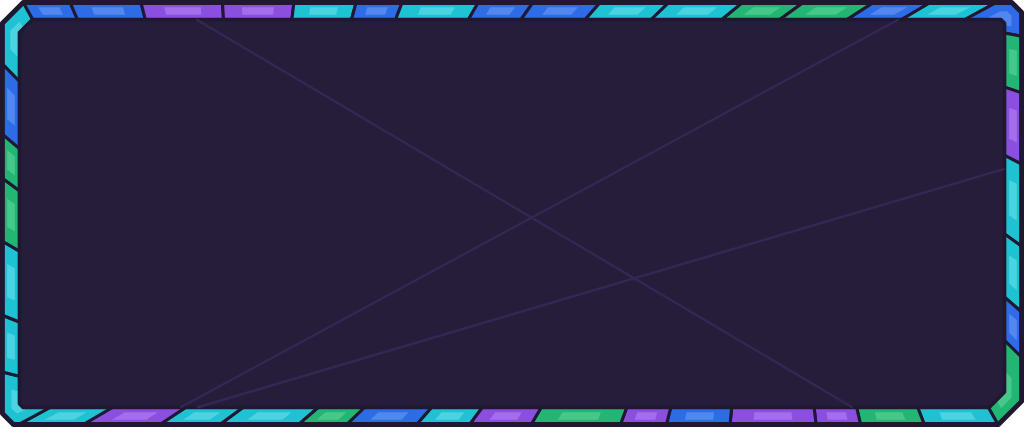
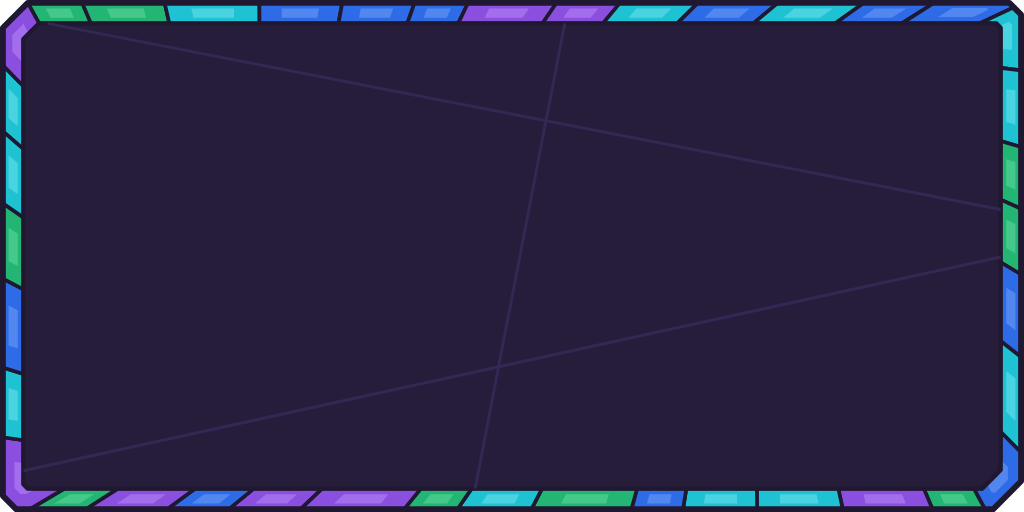
Playtime Rewards: 5 stages (10/20/30/45/60), narrower window, claim gem inside its cell
Creator revision: R10/R20/R30/R45/R60 with gems still over the cell centres (piecewise time mapping),
a 2:1 window (new window art), CLAIM gem and countdown pill inside the inner pane, neutral Note text.
Captures refreshed.

diff --git a/tools/ui/playtime_rewards_art.py b/tools/ui/playtime_rewards_art.py
@@ -161,9 +161,9 @@ def plaque_pts(x0, y0, x1, y1):
 A = {}
 CELL_W, CELL_H, CELL_CUT = 200, 310, (24, 10, 26, 10)
 
-# Window: wide (aspect 2.4), aqua-led cool mosaic so it is the same family as the other menus but its own colour.
+# Window: aspect 2.0 for five cells, aqua-led cool mosaic so it is the same family as the other menus but its own colour.
 seed(23 * 7)
-A["window"] = window_svg(1680, 700, band=28, pieces=44,
+A["window"] = window_svg(1400, 700, band=28, pieces=40,
                          colors=("aqua", "aqua", "sapphire", "aqua", "amethyst", "emerald", "sapphire"))
 # Reward cells, one frame per state (claimed/next share cell_open; claimed adds cell_dim + check on top).
 seed(61); A["cell_open"] = window_svg(CELL_W, CELL_H, band=13, cut=CELL_CUT, colors=("aqua", "sapphire"), pieces=11, facets=2)

diff --git a/docs/ui/screens/PlaytimeRewardsScreen.md b/docs/ui/screens/PlaytimeRewardsScreen.md
@@ -1,41 +1,44 @@
 # PlaytimeRewardsScreen (top bar → Rewards gift → Playtime Rewards)
 
-Design only (Oct 19): no controller, no remotes. A **wide** Stained Glass window (aspect 2.4, about 90% of the screen
-width on 16:9) with one row of six reward cells at 10, 20, 30, 40, 50 and 60 minutes of play, under a progress bar whose
-milestone gems sit exactly over each cell's centre. One page, no scrolling. It is Daily Rewards' sister: same window,
+Design only (Oct 19): no controller, no remotes. A **wide** Stained Glass window (aspect 2.0, 0.72 of the screen width,
+about 1380×690 px at 1920×1080) with one row of **five** reward cells at **10, 20, 30, 45 and 60** minutes of play (the
+creator's stages), under a progress bar whose milestone gems sit exactly over each cell's centre. One page, no scrolling. It is Daily Rewards' sister: same window,
 banner and close diamond, but a different shape (a long row instead of a calendar) and an **aqua** accent (Daily is
 amber). Rebuild with `tools/studio/build_playtime_rewards_screen.luau` (Studio Edit, lock held; copies the old screen to
 `ServerStorage.UIBackup_Topbar`, then replaces `StarterGui.PlaytimeRewardsScreen`).
 
 ![Playtime Rewards, sample state at 23 minutes](PlaytimeRewardsScreen.jpg)
 
-The build shows a sample of **23 minutes played**: 10 claimed, 20 ready to claim, 30 next (6:48 left), 40, 50 and 60
-locked. Close-ups: [cells](PlaytimeRewardsScreen_cells.jpg), [progress bar](PlaytimeRewardsScreen_bar.jpg).
+The build shows a sample of **23 minutes played**: 10 claimed, 20 ready to claim, 30 next (6:48 left), 45 and 60
+locked.
+
+Revision (creator, Oct 19): 5 stages instead of 6 and a narrower window; the CLAIM gem and the countdown pill now sit fully
+inside the cell's inner pane (clear of its lead border); the top note is neutral until the rules are set. Close-ups: [cells](PlaytimeRewardsScreen_cells.jpg), [progress bar](PlaytimeRewardsScreen_bar.jpg).
 
 ## Element map
 
 `PlaytimeRewardsScreen` (ScreenGui, `Enabled = false`, `TopbarScreen = true`, DisplayOrder 20, CoreUISafeInsets) →
-`Panel` (aspect 2.4, Scale only). Every image has an `AssetPath` attribute naming its UIAssets key.
+`Panel` (aspect 2.0, Scale only). Every image has an `AssetPath` attribute naming its UIAssets key.
 
 | Name | Class | What it will do |
 |---|---|---|
-| `Panel.WindowArtwork` | ImageLabel | wide mosaic window (`window`), aqua-led cool border, Fit |
+| `Panel.WindowArtwork` | ImageLabel | wide mosaic window (`window`, 1400×700), aqua-led cool border, Fit |
 | `Panel.TitleBanner` / `Panel.Title` | ImageLabel / TextLabel | aqua `panel/title_aqua` banner, "PLAYTIME REWARDS" (Denk One, cloned from the Inventory window) |
 | `Panel.Close` | TextButton | close diamond cloned from Inventory; TopbarController closes the screen on it |
-| `Panel.Note` | TextLabel | small right-aligned note, "Keep playing to unlock rewards. The timer resets when you leave." Change or hide freely |
+| `Panel.Note` | TextLabel | small right-aligned note. Neutral sample "Keep playing to unlock rewards!"; the functionality pass sets the final text |
 | `Panel.Progress` | Frame (whole panel) | the bar; attribute `PlayedMinutes` (sample 23) |
-| `Progress.Track` | ImageLabel, Slice `Rect(20,0,1004,46)` | lead channel from x 0.045 to 0.955 of the panel |
+| `Progress.Track` | ImageLabel, Slice `Rect(20,0,1004,46)` | lead channel from x 0.058 (0 min) to just past the 60 gem (x 0.923) |
 | `Progress.Track.Fill` | ImageLabel, Slice (same rect) | aqua glass fill. **`Size.X.Scale` = fill fraction of the track** (see Wiring) |
-| `Progress.Track.Leads.Came1–6` | Frame | thin lead lines halfway between milestones that split the fill into glass panes (decoration) |
+| `Progress.Track.Leads.Came1–5` | Frame | thin lead lines halfway between milestones that split the fill into glass panes (decoration) |
 | `Progress.StartCap` | ImageLabel | clock gem (`icon_clock`) at the bar's start = 0 min |
-| `Progress.Markers.M10 … M60` | Frame (square) | one per milestone, centred over its cell. Attributes `Minutes`, `Reached` |
+| `Progress.Markers.M10, M20, M30, M45, M60` | Frame (square) | one per milestone, centred over its cell. Attributes `Minutes`, `Reached` |
 | `M*.Gem` | ImageLabel | `gem_on` (aqua) when reached, `gem_off` (slate) before; M60 uses `gem_best_on` / `gem_best_off` (star) |
 | `M*.Glow` | ImageLabel | soft aqua glow behind a reached gem; `Visible = Reached` |
-| `M*.Label` | TextLabel | "10" … "60" (Denk One). White when reached, slate `#B7B3CC` before |
+| `M*.Label` | TextLabel | "10", "20", "30", "45", "60" (Denk One). White when reached, slate `#B7B3CC` before |
 | `Progress.Time` | ImageLabel (`time_tag`) | play-time readout tag that **rides above the fill's head** and points down at it. AnchorPoint (0.5, 1) |
 | `Progress.Time.Label` | TextLabel | "23 MIN" |
-| `Panel.Rewards` | Frame | the row of cells (x 0.04 to 0.96, y 0.445 to 0.915) |
-| `Rewards.R10 … R60` | Frame (aspect 200:310) | one cell. Attributes `Minutes`, `State` (`Claimed` / `Ready` / `Next` / `Locked`); R60 also has `Best = true` |
+| `Panel.Rewards` | Frame | the row of cells (x 0.05 to 0.97, y 0.445 to 0.915) |
+| `Rewards.R10, R20, R30, R45, R60` | Frame (aspect 200:310) | one cell. Attributes `Minutes`, `State` (`Claimed` / `Ready` / `Next` / `Locked`); R60 also has `Best = true` |
 | `R*.Artwork` | ImageLabel | cell frame, swapped by state (table below) |
 | `R*.Glow` | ImageLabel | aqua-white glow behind the cell, **Ready only** (pulse it later) |
 | `R*.Outline` | ImageLabel | aqua-light outline around the cell, **Next only** |
@@ -45,8 +48,8 @@ locked. Close-ups: [cells](PlaytimeRewardsScreen_cells.jpg), [progress bar](Play
 | `R*.Dim` | ImageLabel | dark glass over the whole cell (`cell_dim`, ImageTransparency 0.45), **Claimed only** |
 | `R*.ClaimedMark` | ImageLabel | emerald check medallion over the icon, **Claimed only** |
 | `R*.Status` | TextLabel | "CLAIMED" in emerald light in the bottom slot, **Claimed only** |
-| `R*.ClaimButton` | TextButton | green gem "CLAIM" (`button/gem_emerald`) with `Artwork`, `Label` and `InteractionScale` like the kit buttons, **Ready only** |
-| `R*.CountdownTag` / `R*.Countdown` | ImageLabel / TextLabel | aqua tag with time left to unlock ("6:48"), **Next only** |
+| `R*.ClaimButton` | TextButton | green gem "CLAIM" (`button/gem_emerald`) with `Artwork`, `Label` and `InteractionScale` like the kit buttons, **Ready only**. 0.74 of the cell width, so it stays inside the inner pane (the lead band is about 0.085 of the width each side) |
+| `R*.CountdownTag` / `R*.Countdown` | ImageLabel / TextLabel | aqua pill with time left to unlock ("6:48"), **Next only**; 0.72 of the cell width, inside the pane |
 | `R*.LockIcon` | ImageLabel | slate padlock in the bottom slot, **Locked only** |
 | `R60.BestBadge` | ImageLabel | amber star gem on the top-right corner of the best (60-minute) cell, always shown |
 
@@ -67,10 +70,11 @@ Milestone gems: reached → `Gem` = `gem_on` / `gem_best_on`, `Glow.Visible = tr
 
 ## Wiring notes (for later)
 
-- **Fill and readout position.** The milestones are evenly spaced over the cells, so time maps to x **piecewise**: 0 min is
-  the bar start (x 0.045, under the clock), each 10-minute mark is its cell centre `0.04 + 0.92 * (i - 0.5) / 6`, and after
-  60 the fill runs on to the end (x 0.955). Copy `timeToX` from the build script. Then
-  `Track.Fill.Size.X.Scale = (timeToX(t) - 0.045) / 0.91` and `Progress.Time.Position.X.Scale = timeToX(t)`.
+- **Fill and readout position.** The gems are evenly spaced over the cells but the stages are not evenly spaced in time
+  (10, 10, 10, 15, 15 minutes), so time maps to x **piecewise**: 0 min is the bar start (x 0.058, under the clock), stage
+  *i* is its cell centre `0.05 + 0.92 * (i - 0.5) / 5`, and at 60 the fill covers the whole track (to x 0.923, under the
+  star). Copy `timeToX` from the build script (it reads the stage list). Then
+  `Track.Fill.Size.X.Scale = (timeToX(t) - BAR_X0) / (BAR_X1 - BAR_X0)` and `Progress.Time.Position.X.Scale = timeToX(t)`.
 - Tween the fill and the tag together; light the gem (and fire a small sparkle) as the fill passes it.
 - The readout can show "23 MIN" or "23:12"; it is Denk One with TextFit, so either fits.
 
@@ -85,7 +89,7 @@ to `UIAssets` under `screens/playtime_rewards/*`.
 
 | Key (`screens/playtime_rewards/…`) | PNG | Decal | Image id | Use |
 |---|---|---|---|---|
-| `window` | 1024×427 | 126260622906559 | 100521988636466 | panel, Fit, aspect 2.4 |
+| `window` | 1024×512 | 95439411319486 | 117328170402465 | panel, Fit, aspect 2.0 |
 | `cell_open` | 400×620 | 113954142347514 | 92846045397361 | cell frame (claimed / next), Fit |
 | `cell_ready` | 400×620 | 124739632696378 | 109813909526428 | cell frame (ready) |
 | `cell_locked` | 400×620 | 117425286963282 | 74505075426783 | cell frame (locked) |
@@ -108,7 +112,8 @@ Reused from the kit: `panel/title_aqua`, `hud/label_plaque`, `tag/tag_aqua`, `bu
 ## Notes / not done
 
 - All positions and sizes are Scale with UIAspectRatioConstraints; the phone and tablet scaling pass is still to do. At
-  1920×1080 the panel is about 1730×720 px and each cell about 220×340 px.
+  1920×1080 the panel is about 1380×690 px and each cell about 210×325 px. The first (6-stage, 2.4:1) window art is
+  superseded; its Decal 126260622906559 is no longer used.
 - The Settings screen also uses an aqua banner; if the two should differ more, swap `TitleBanner` to another
   `panel/title_*` colour (the bar and gems can stay aqua).
 - Animations (fill tween, gem light-up, glow pulse, claim pop) come with the wiring.

diff --git a/docs/logs/DEVLOG.md b/docs/logs/DEVLOG.md
@@ -16,8 +16,9 @@ Balance sim (if balance changed):
 
 ## 2026-10-19 — Claude — PlaytimeRewardsScreen design (top bar menus)
 Done:
-- Designed `StarterGui.PlaytimeRewardsScreen`: a wide Stained Glass window (aspect 2.4, one page) with six reward cells at 10–60 min under a progress bar whose milestone gems sit over each cell's centre (lit aqua when reached, star gem for 60), an aqua fill split into panes by lead cames, a clock start cap and a "23 MIN" readout tag riding above the fill's head. Cells show all four states in the sample build (10 claimed, 20 ready with green CLAIM gem and glow, 30 next with outline and 6:48 countdown, 40–60 locked with padlock); the 60 cell has a rainbow border and star badge. Aqua accent (Daily is amber). Rebuild: `tools/studio/build_playtime_rewards_screen.luau`.
+- Designed `StarterGui.PlaytimeRewardsScreen`: a wide Stained Glass window (aspect 2.0, one page, 0.72 of screen width) with five reward cells at 10, 20, 30, 45 and 60 min under a progress bar whose milestone gems sit over each cell's centre (lit aqua when reached, star gem for 60), an aqua fill split into panes by lead cames, a clock start cap and a "23 MIN" readout tag riding above the fill's head. Cells show all four states in the sample build (10 claimed, 20 ready with green CLAIM gem and glow, 30 next with outline and 6:48 countdown, 45 and 60 locked with padlock); the 60 cell has a rainbow border and star badge. Aqua accent (Daily is amber). Rebuild: `tools/studio/build_playtime_rewards_screen.luau`.
 - New art `tools/ui/playtime_rewards_art.py` → `assets/ui/screens/playtime_rewards` (window, 4 cell frames + dim/outline, bar track/fill, 4 gems, glow, check/lock/clock icons, time tag), 18 Decals uploaded to group 11116787; keys in `UIAssets` (`screens/playtime_rewards/*`). Element map, states, wiring notes and captures: `docs/ui/screens/PlaytimeRewardsScreen.md`.
+- Creator revision: 5 stages instead of 6 (`R10/R20/R30/R45/R60`, `M10…M60`; the gems stay over the cell centres, so time maps piecewise over uneven intervals), a narrower window (new `window` art, 1400×700), the CLAIM gem and countdown pill shrunk to sit inside the cell's inner pane, and neutral `Note` text ("Keep playing to unlock rewards!").
 Next:
 - Wire it (playtime tracking, claim remote, fill/tag tween, gem light-up); decide the rewards; phone/tablet scaling pass.
 Problems / questions for the user:
